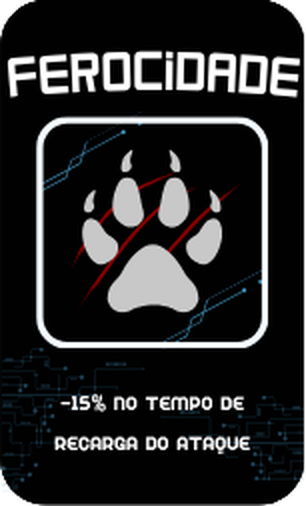
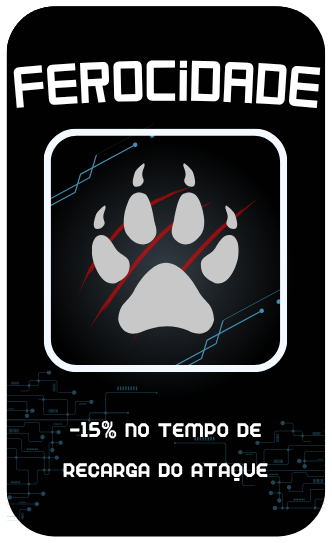
Cartas Rework

Changed region(s): [[0.0, 0.0, 1.0, 1.0], [0.7353, 0.3557, 0.7647, 0.3854]]

diff --git a/src/ui/LevelUpUI.js b/src/ui/LevelUpUI.js
@@ -1,7 +1,11 @@
 import EventBus from '../systems/EventBus.js';
 
-const CARD_W = 160;
-const CARD_H = 200;
+// cartas bem maiores que antes (pedido explícito) — ainda a mesma
+// proporção 0.605 da arte real (~330x545px), só numa escala maior;
+// 170x281 com 3 cartas por linha + Restock ainda cabe nos 704px de
+// largura do canvas (ver BASE_WIDTH em config/gameConfig.js) com folga
+const CARD_W = 170;
+const CARD_H = 281;
 const GAP = 20;
 const ROW_GAP = 24;
 // Máximo de cartas por linha antes de quebrar pra próxima — com
@@ -235,12 +239,18 @@ export default class LevelUpUI {
 
   // Carta única de evolução: maior, com brilho dourado, sem "rivais" ao l…
   _buildEvolutionCard(x, y, evolution) {
-    const w = CARD_W * 1.3;
-    const h = CARD_H * 1.15;
+    // mesmo fator nos dois eixos (em vez dos antigos 1.3/1.15) pra manter
+    // a proporção 0.6 da arte real — carta de evolução só fica maior,
+    // sem distorcer
+    const EVOLUTION_SCALE = 1.2;
+    const w = CARD_W * EVOLUTION_SCALE;
+    const h = CARD_H * EVOLUTION_SCALE;
     const group = this.scene.add.container(x, y);
 
     // mesma arte da carta base (ver data/cardArt.js) — a evolução usa o
-    const artKey = `card_${evolution.id}`;
+    // artId quando existe (evolução com nome/arte por arma, ver
+    // RunManager._resolveEvolutionName), senão cai no próprio id
+    const artKey = `card_${evolution.artId ?? evolution.id}`;
     if (this.scene.textures.exists(artKey)) {
       const glow = this.scene.add.rectangle(0, 0, w + 18, h + 18, 0xffd166, 0.22).setScrollFactor(0);
       const art = this.scene.add

diff --git a/data/cardArt.js b/data/cardArt.js
@@ -10,5 +10,16 @@
 export default [
   'dmg_up', 'speed_up', 'hp_up', 'cooldown_down', 'range_up', 'thorns_up', 'armor_up',
   'arsenal_expandido', 'lifesteal_up', 'dog_purify',
-  'fists_slam', 'fists_shockwave', 'katana_double', 'pistol_drone', 'pistol_fragmentation'
+  'fists_slam', 'fists_shockwave', 'katana_double', 'katana_shuriken', 'pistol_drone', 'pistol_fragmentation',
+
+  // evoluções com arte pronta. `dmg_up_evo_overcharge` é usada por 3 armas
+  // com nomes diferentes (ver namesByWeapon em data/upgrades.js) — como o
+  // id da carta é o mesmo pras 3, a arte não pode viver em
+  // dmg_up_evo_overcharge.png sozinha; RunManager._resolveEvolutionName
+  // monta um `artId` só pra esse caso (dmg_up_evo_overcharge_<arma>), então
+  // os 3 PNGs abaixo usam esse artId como nome de arquivo em vez do id da
+  // carta (ver LevelUpUI._buildEvolutionCard).
+  'armor_up_evo_shield', 'thorns_up_evo_sobrecarga', 'range_up_evo_katana_stray',
+  'speed_up_evo_tornado', 'range_up_evo_hunter_instinct',
+  'dmg_up_evo_overcharge_fists', 'dmg_up_evo_overcharge_katana', 'dmg_up_evo_overcharge_pistol'
 ];

diff --git a/src/roguelike/RunManager.js b/src/roguelike/RunManager.js
@@ -146,7 +146,11 @@ export default class RunManager {
   _resolveEvolutionName(evolution) {
     if (!evolution.namesByWeapon) return evolution;
     const name = evolution.namesByWeapon[this.runState.weaponId] ?? evolution.name;
-    return { ...evolution, name };
+    // mesmo id pras 3 armas, mas cada uma tem PNG próprio (ver
+    // data/cardArt.js) — artId aponta pro arquivo certo sem mexer no id
+    // real da carta (que continua sendo o que RunState.applyUpgrade grava)
+    const artId = `${evolution.id}_${this.runState.weaponId}`;
+    return { ...evolution, name, artId };
   }
 
   // Aplica os efeitos de uma carta normal OU de uma evolução (que tem
